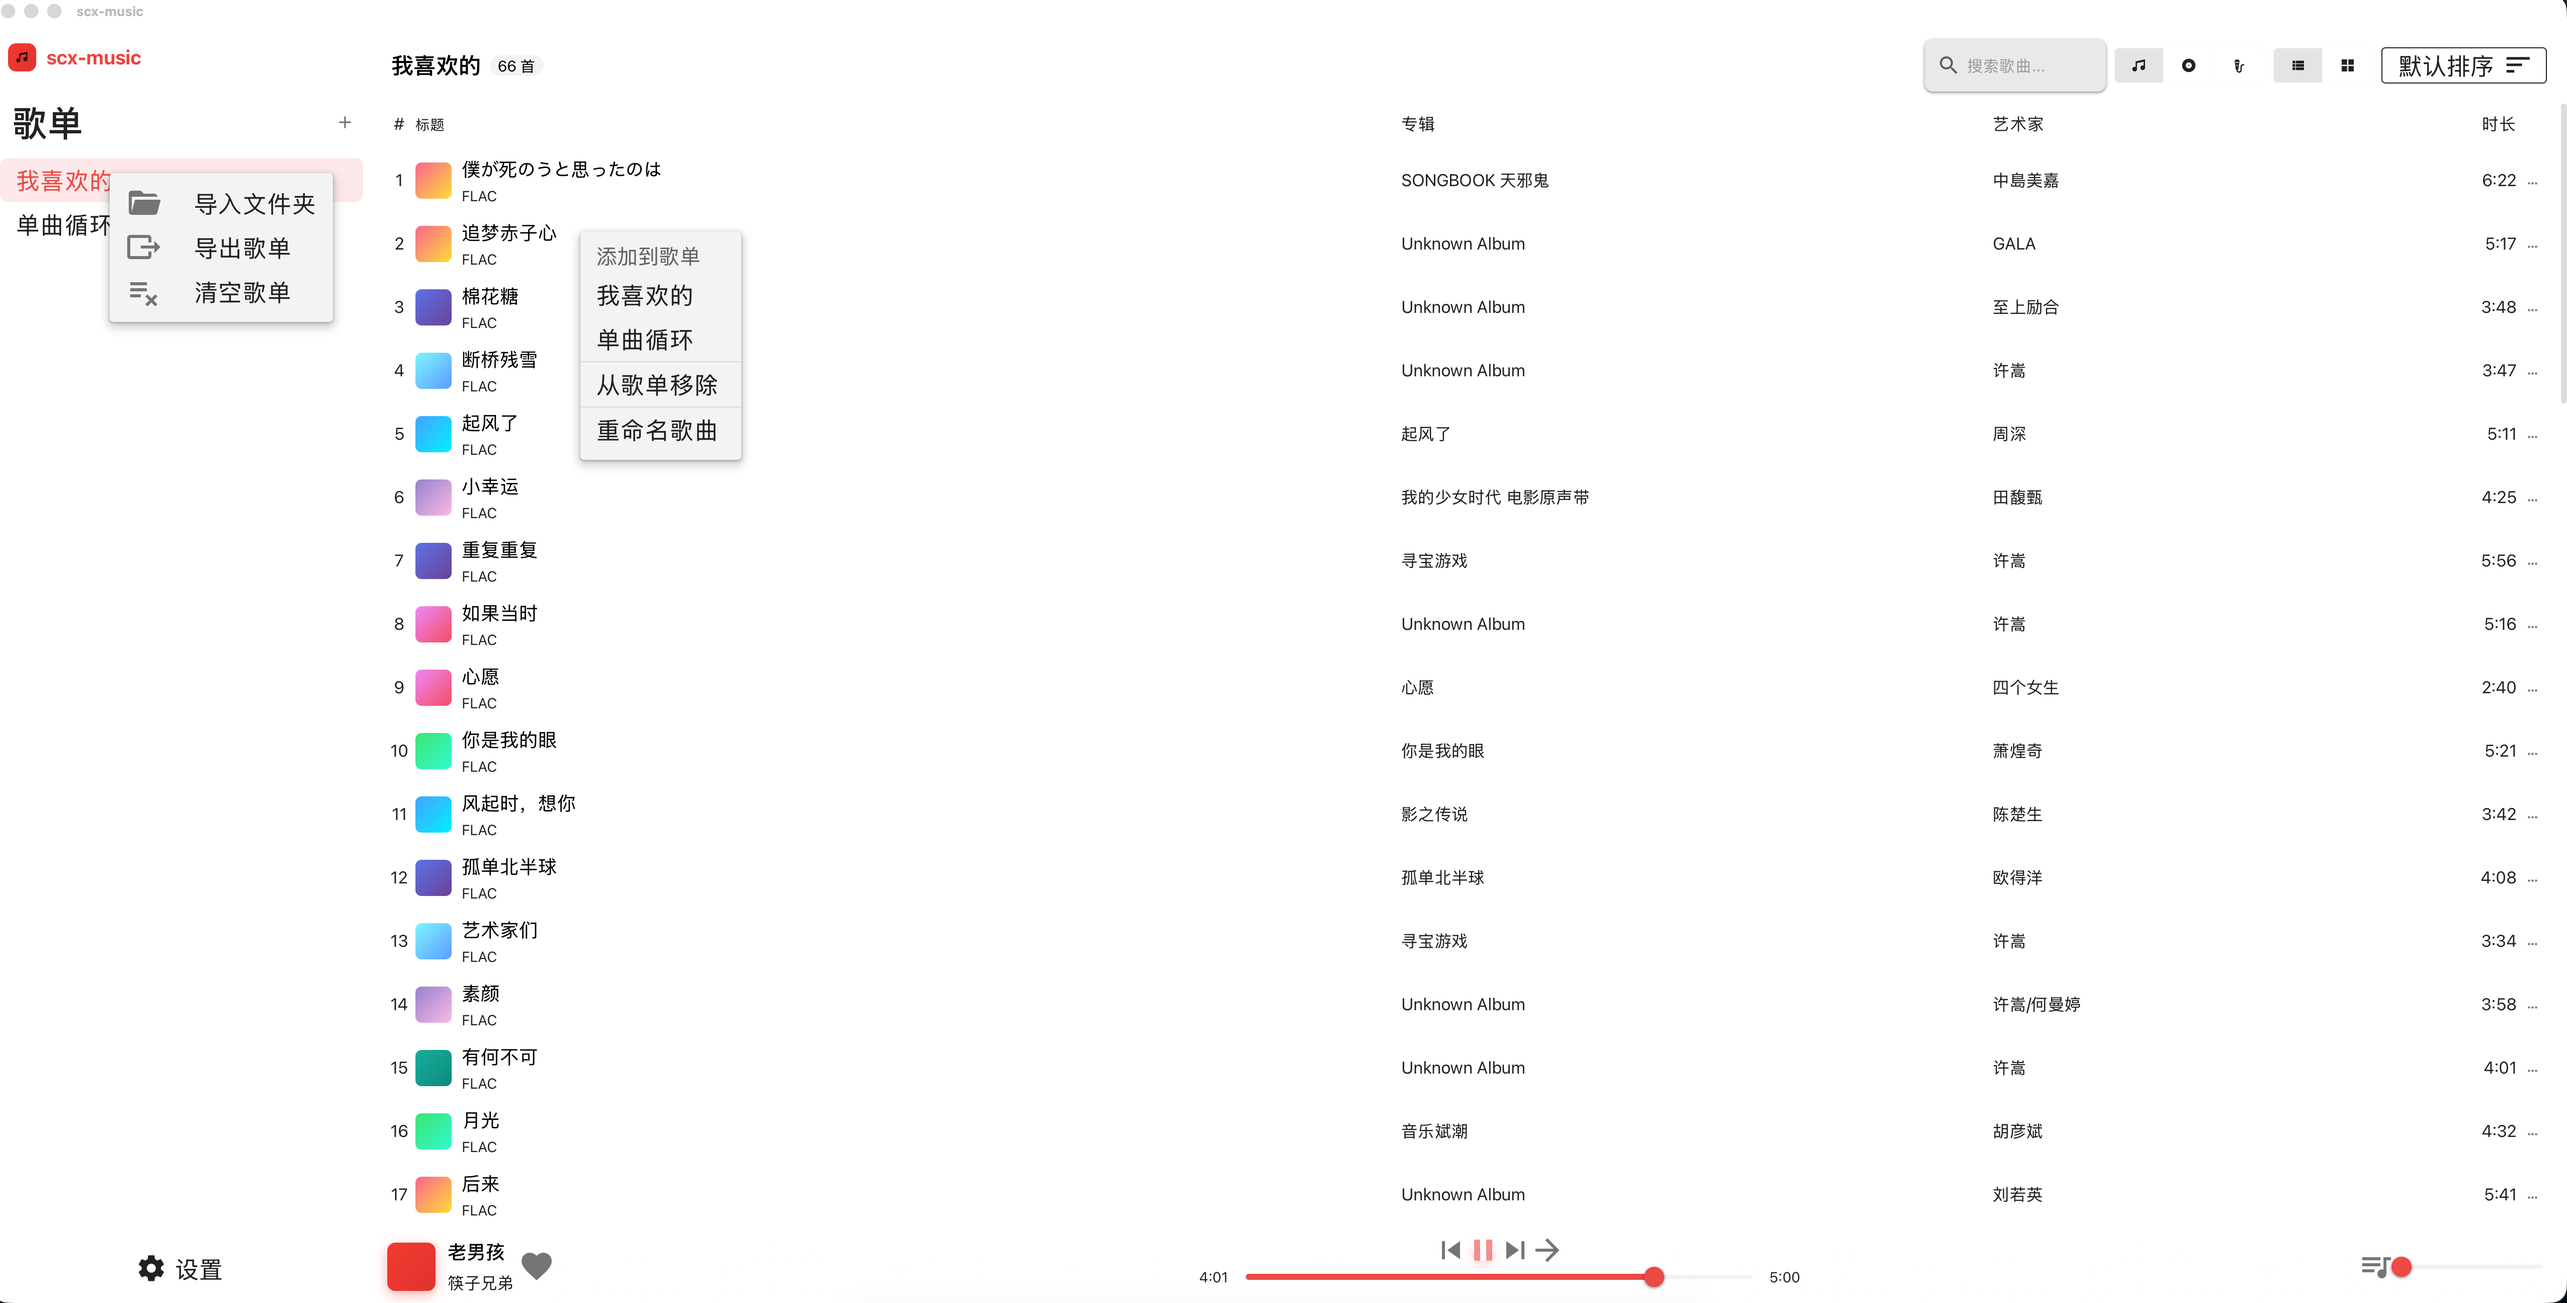
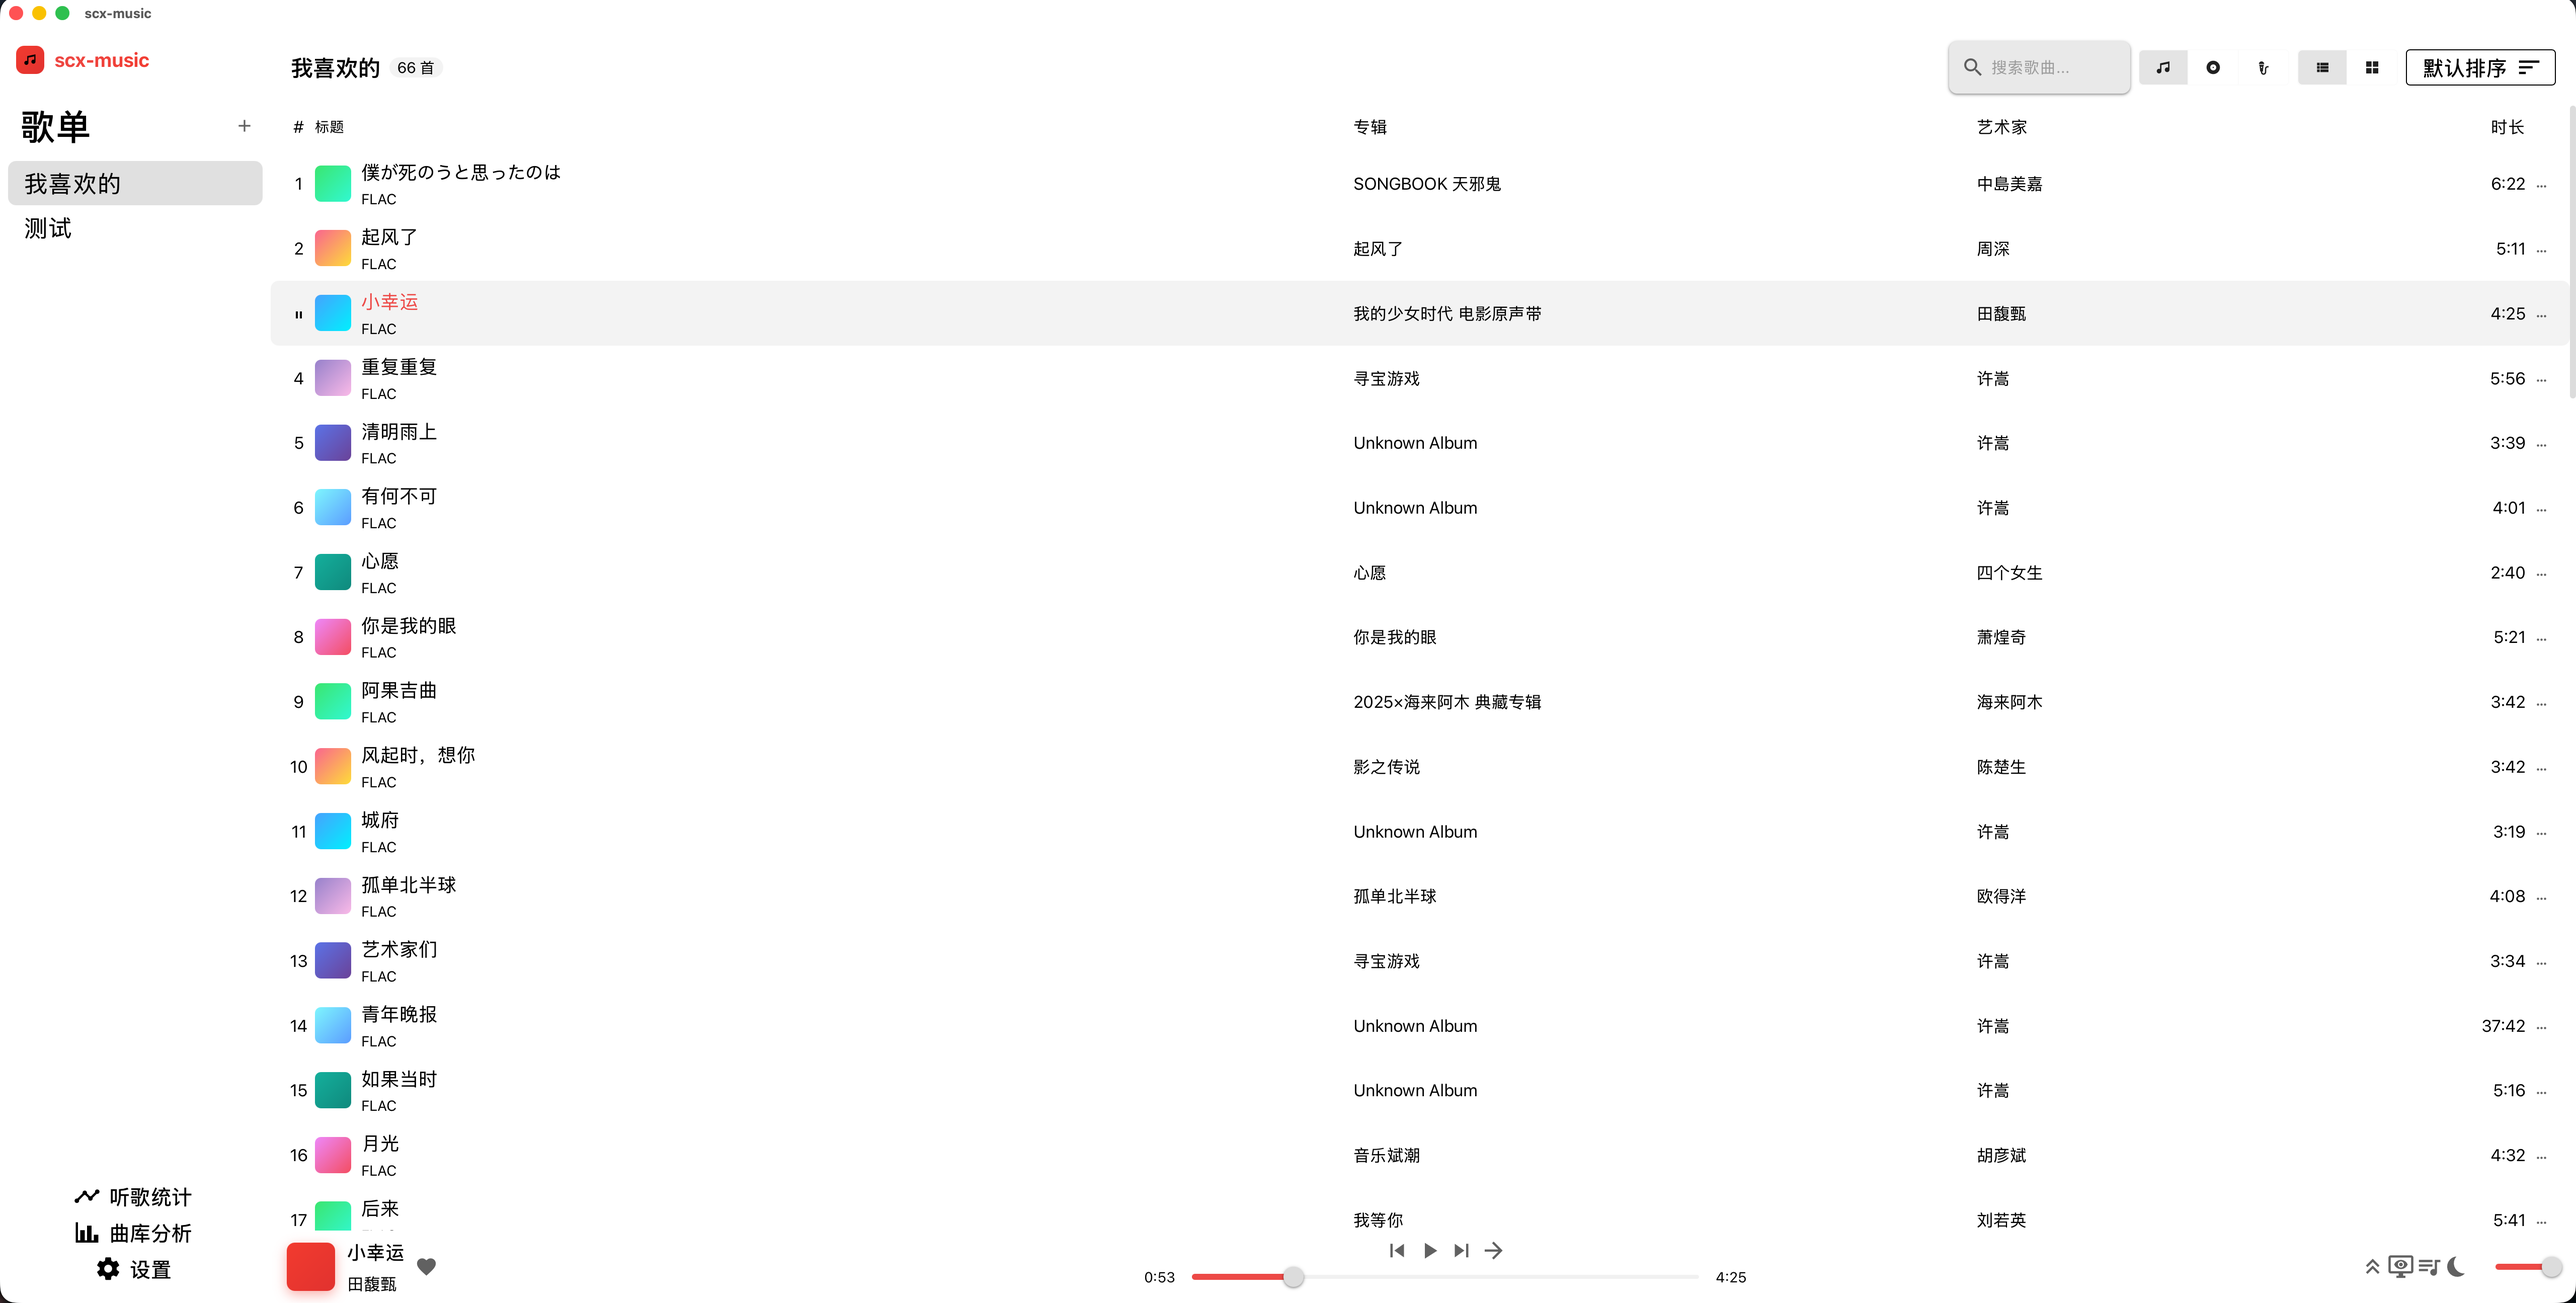
docs: 迁移 CLAUDE.md 至 AGENTS.md，更新截图并升级版本至 0.0.7

diff --git a/AGENTS.md b/AGENTS.md
@@ -20,7 +20,7 @@ This file provides guidance to Codex (Codex.ai/code) when working with code in t
 
 1. **禁止提交代码** — 不要执行 `git commit`、`git push` 等提交操作，由用户自行提交
 2. **删除文件前必须告知用户并取得同意** — 不能未经确认删除任何文件
-3. **Superpowers spec/plan 文件位置** — 仅存放在 `superpowers/spec/` 和 `superpowers/plan/` 下。这两个目录已在 `.gitignore` 中，禁止从 `.gitignore` 中删除 `superpowers/` 条目，禁止将 spec/plan 文件放到其他文件夹
+3. **Superpowers spec/plan 文件位置** — 仅存放在 `superpowers/specs/` 和 `superpowers/plans/` 下。这两个目录已在 `.gitignore` 中，禁止从 `.gitignore` 中删除 `superpowers/` 条目，禁止将 specs/plans 文件放到其他文件夹
 
 ## 命令
 
@@ -60,7 +60,7 @@ Rust 命令 → IPC emit → Pinia Store → UI 更新
 - `analyzer.rs` — FFT 频谱（256 点 → 64 bins，30fps，通过 `audio:spectrum` 事件推送）
 - `commands/` — IPC 处理器：bootstrap、songs、playlists、settings、lyrics、import_export
 - `db/` — SQLite 数据库，含迁移（INIT_SCHEMA 初始表 + V6_PLAY_HISTORY 播放历史）和数据模型（Song、Playlist、PlaylistSong、Lyric）
-- 错误处理：统一 `AppError` 枚举在 `error.rs`，所有命令返回 `AppResult<T>`
+- 错误处理：统一 `AppError` 枚举在 `error.rs`，所有命令返回 `AppResult<T>`；AppError 通过 `#[serde(tag = "type", content = "message")]` 序列化为 `{"type": "...", "message": "..."}` 传到前端。`From<io::Error>` 自动转 FileOperation、`From<rusqlite::Error>` 自动转 Database、`From<serde_json::Error>`/`From<tauri::Error>`/`From<tauri_plugin_global_shortcut::Error>`/`From<String>` 转 OperationFailed。**`?` 操作符直接工作，无需 `.map_err(|e| e.to_string())?` 样板**（例外：① audio/commands.rs / device.rs / analyzer_cmds.rs 的 AudioState 锁保留 `.map_err(|e| e.to_string())?`，让前端感知 lock 中毒；② shortcuts.rs 的 `parse::<Shortcut>()` 因 `HotKeyParseError` 来自非直接依赖 crate 无法写 `From`，保留桥接；③ songs.rs::rename_song 的 `format!("...: {}", e)` 保留）。
 
 ### 关键数据流
 

diff --git a/README.md b/README.md
@@ -10,14 +10,13 @@
 
 ## 预览
 
-### 主界面
-
 <div style="display: grid; grid-template-columns: repeat(3, 1fr); gap: 1rem;">
-  <img src="docs/screenshots/main.png" />
-  <img src="docs/screenshots/playlist.png" />
-  <img src="docs/screenshots/player.png" />
-  <img src="docs/screenshots/night.png" />
-  <img src="docs/screenshots/settings.png" />
+  <img src="docs/screenshots/main.png" alt="主界面" />
+  <img src="docs/screenshots/playlist.png" alt="播放列表" />
+  <img src="docs/screenshots/desktoplyric.png" alt="桌面歌词" />
+  <img src="docs/screenshots/player.png" alt="当前播放" />
+  <img src="docs/screenshots/night.png" alt="夜间模式" />
+  <img src="docs/screenshots/settings.png" alt="设置页面" />
 </div>
 
 ---
@@ -104,7 +103,7 @@ scx-music/
 │   └── tauri.conf.json     # Tauri 配置
 ├── .wiki/                  # 项目文档
 ├── docs/                   # 文档资源（截图等）
-└── CLAUDE.md               # AI 辅助开发指南
+└── AGENTS.md               # AI 辅助开发指南
 ```
 
 ### 开发命令
@@ -118,7 +117,7 @@ scx-music/
 
 ## 文档
 
-- [项目结构 + 命令](./CLAUDE.md) — Claude Code 工作约定 + 命令参考
+- [项目结构 + 命令](./AGENTS.md) — AI 辅助开发工作约定 + 命令参考
 - [架构 Wiki](.wiki/) — 详细架构文档（见下）
 
 ## Wiki
